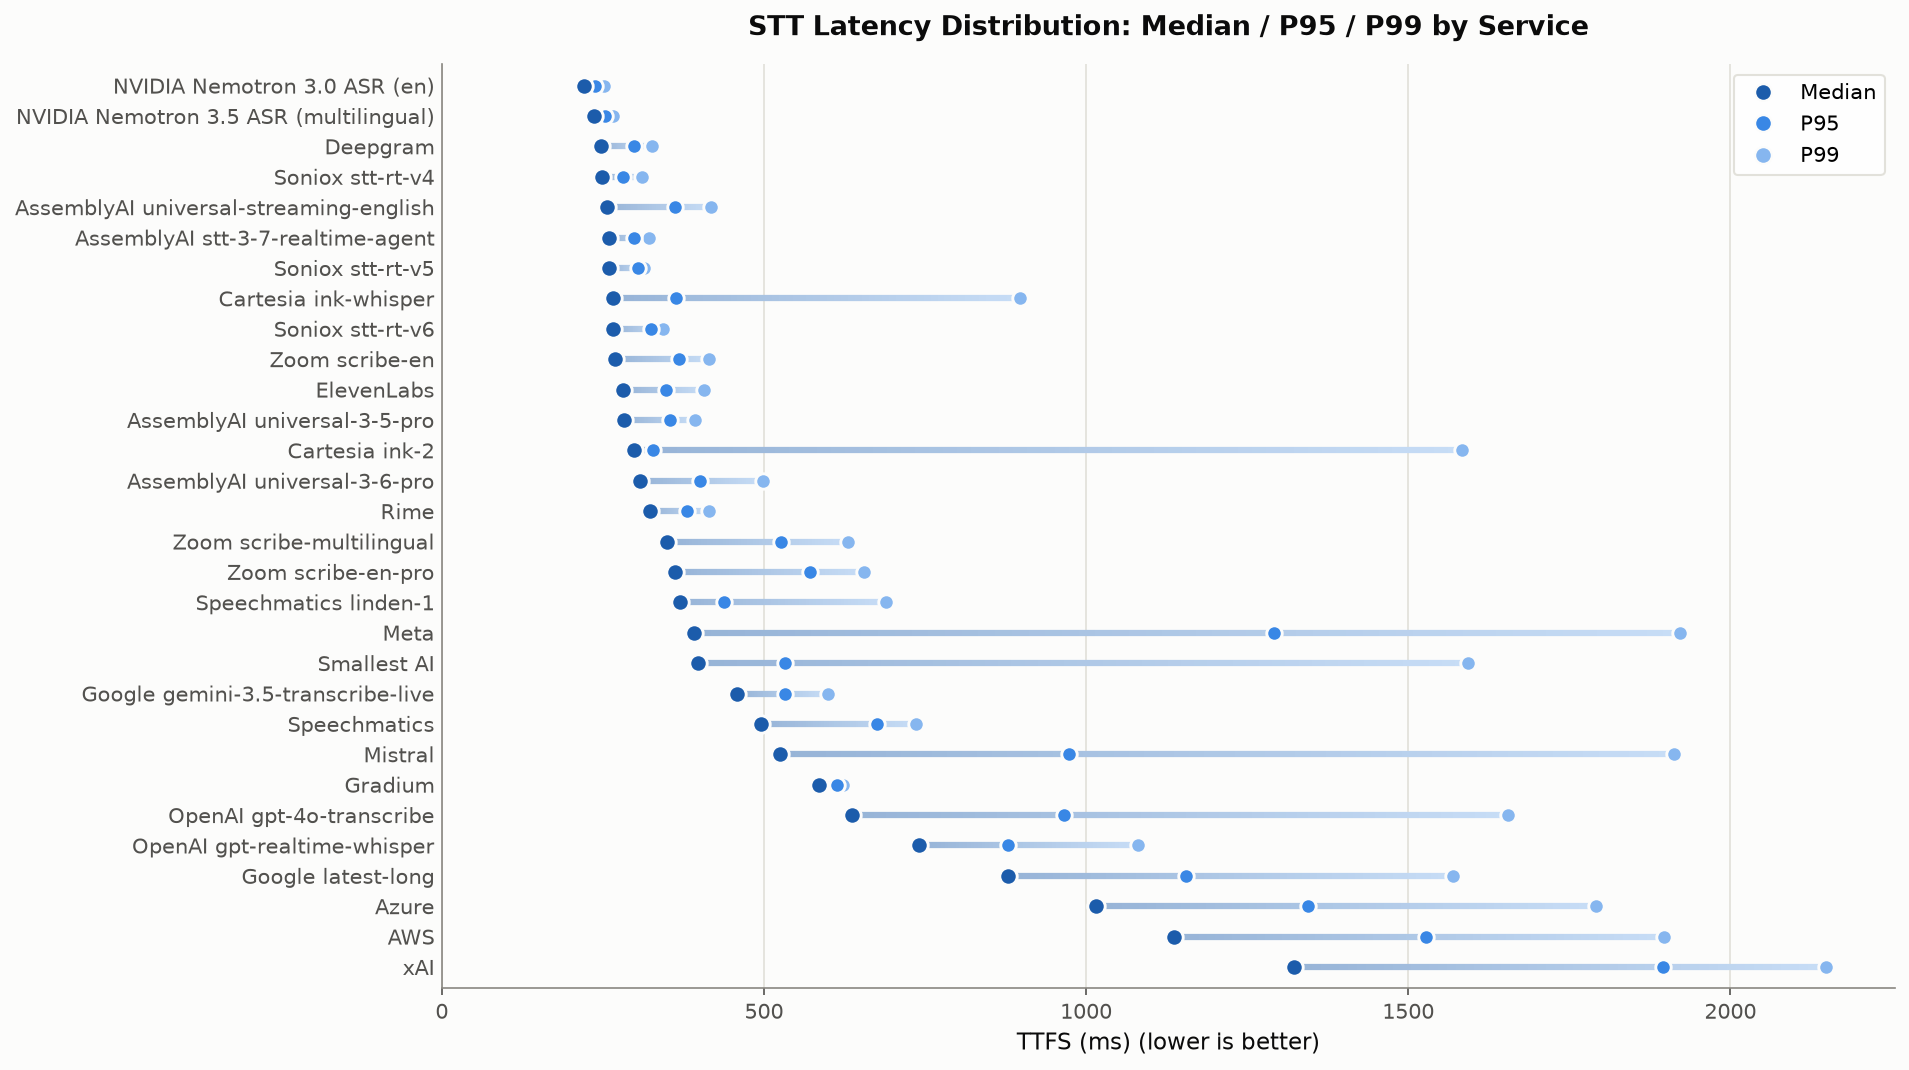
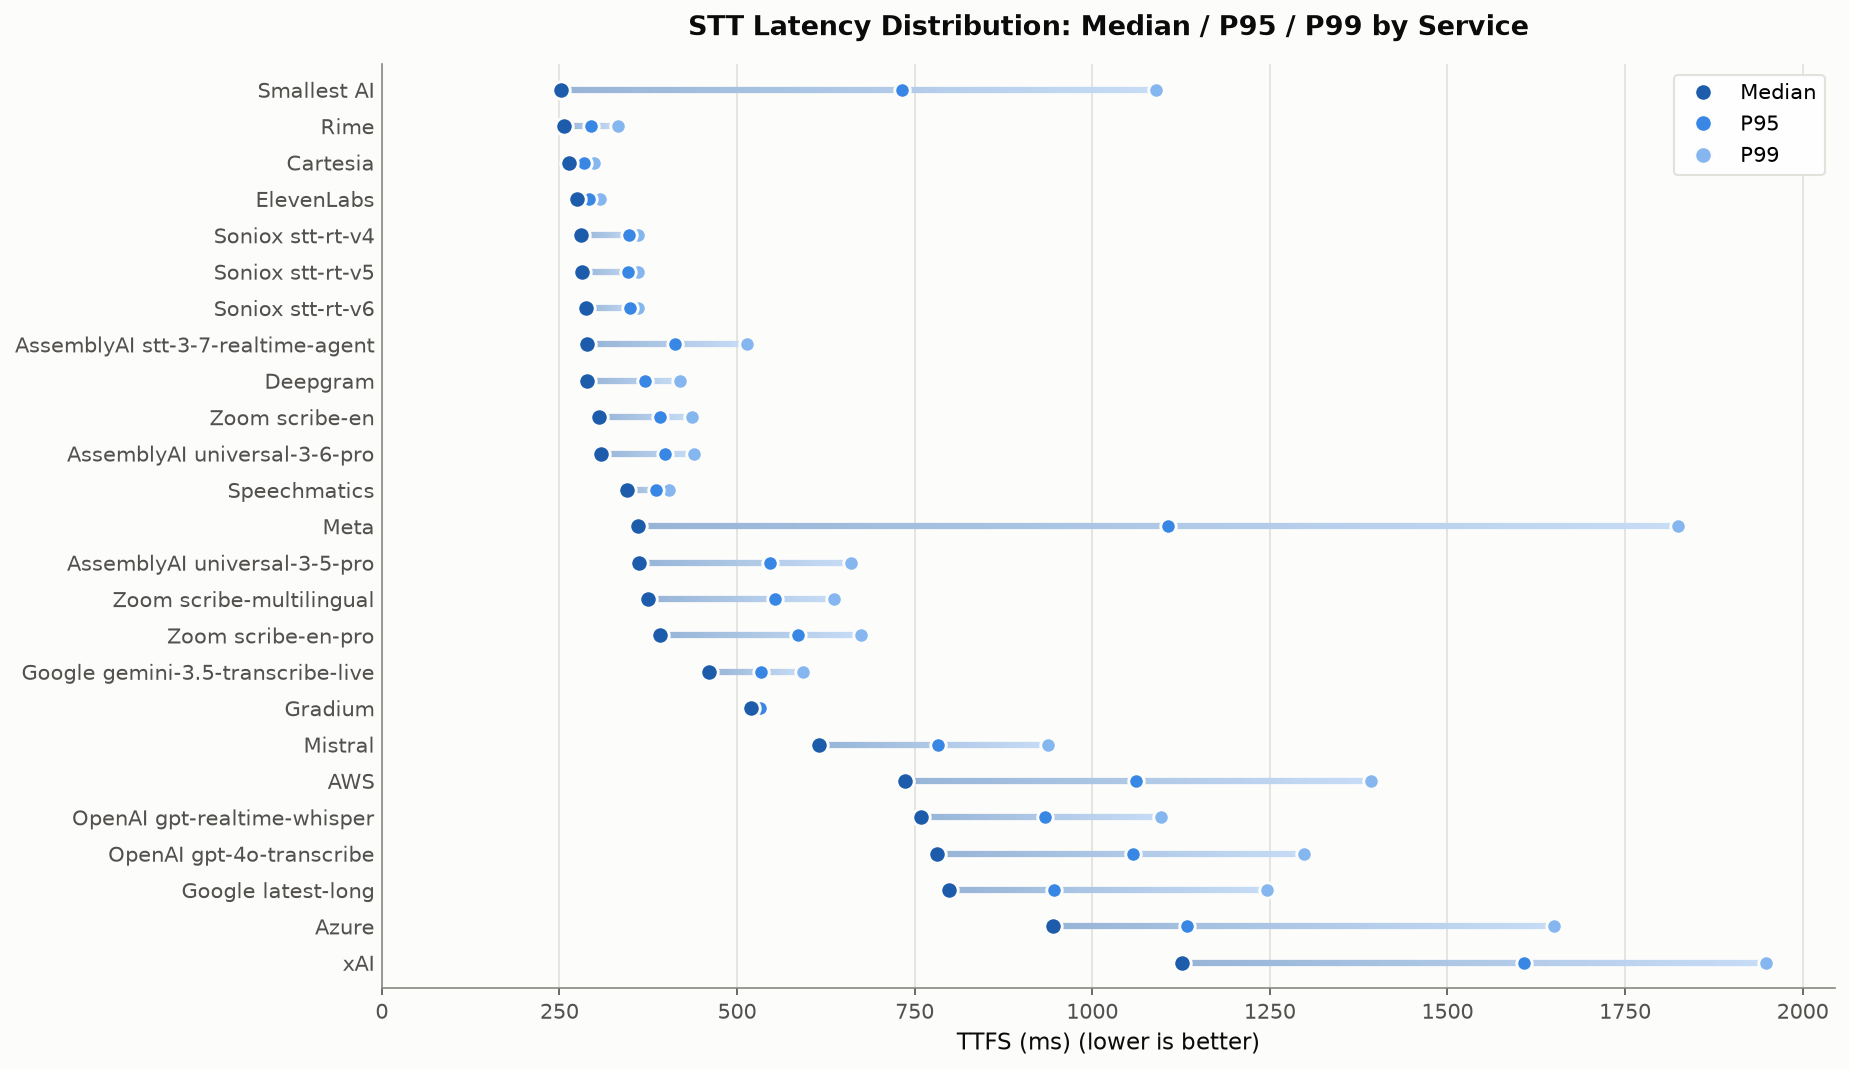
Re-baseline the results from us-west-2
Every row was measured between 23 and 26 November 2026 from one AWS
instance in us-west-2, on the same code and Pipecat version, and scored
by the current judge. The previous table mixed dates, locations and two
judges.

Five rows are not carried over: three superseded models and the two
NVIDIA models, which run locally and were not re-measured. The results
are recorded as the first snapshot, results/2026-11.

diff --git a/README.md b/README.md
@@ -22,48 +22,45 @@ Two services with the same median can therefore feel very different in an agent:
 
 ## Results Summary
 
-Benchmark results on 1000 samples from the `pipecat-ai/smart-turn-data-v3.1-train` dataset.
+Benchmark results on 1000 samples from the `pipecat-ai/smart-turn-data-v3.1-train` dataset. Every row was measured between 23 and 26 November 2026 from one AWS instance in `us-west-2`, on the same benchmark code and Pipecat version, and scored by the same judge. Earlier results are under [History](#history).
 
 <!-- RESULTS_TABLE:START -->
 | Vendor | Model | Transcripts | Perfect | WER Mean | Pooled WER | TTFS Median | TTFS P95 | TTFS P99 |
 |--------|-------|-------------|---------|----------|------------|-------------|----------|----------|
-| AssemblyAI | assemblyai-stt-3-7-realtime-agent | 99.9% | 91.4% | 0.61% | 0.52% | 260ms | 299ms | 321ms |
-| AssemblyAI | universal-3-5-pro | 99.9% | 86.0% | 1.12% | 0.95% | 282ms | 354ms | 393ms |
-| AssemblyAI | universal-3-6-pro | 99.9% | 88.7% | 0.89% | 0.80% | 307ms | 401ms | 498ms |
-| AssemblyAI | universal-streaming-english | 99.8% | 66.8% | 2.81% | 2.42% | 256ms | 362ms | 417ms |
-| AWS | N/A | 100.0% | 79.1% | 1.26% | 1.35% | 1136ms | 1527ms | 1897ms |
-| Azure | N/A | 100.0% | 83.5% | 0.98% | 1.01% | 1016ms | 1345ms | 1791ms |
-| Cartesia | ink-2 | 100.0% | 83.6% | 1.14% | 1.02% | 299ms | 328ms | 1584ms |
-| Cartesia | ink-whisper | 99.9% | 61.4% | 3.32% | 3.78% | 266ms | 364ms | 898ms |
-| Deepgram | nova-3-general | 99.8% | 77.7% | 1.32% | 1.37% | 247ms | 298ms | 326ms |
-| ElevenLabs | scribe_v2_realtime | 99.7% | 80.3% | 3.05% | 3.13% | 281ms | 348ms | 407ms |
-| Google | gemini-3.5-transcribe-live | 99.9% | 78.3% | 1.93% | 1.97% | 458ms | 532ms | 599ms |
-| Google | latest-long | 100.0% | 69.7% | 2.46% | 2.46% | 878ms | 1155ms | 1570ms |
-| Gradium | default | 99.3% | 65.6% | 3.81% | 3.79% | 585ms | 614ms | 623ms |
-| Meta | muse-voice-transcribe-1.0 | 99.9% | 89.5% | 0.80% | 0.73% | 392ms | 1292ms | 1922ms |
-| Mistral | voxtral-mini-transcribe-realtime-2602 | 99.3% | 67.7% | 4.49% | 5.11% | 525ms | 973ms | 1913ms |
-| NVIDIA | Nemotron 3.0 ASR (en) | 100.0% | 76.1% | 1.90%† | 1.95%† | 221ms | 238ms | 252ms |
-| NVIDIA | Nemotron 3.5 ASR (multilingual) | 99.6% | 62.0% | 4.54%† | 4.58%† | 236ms | 253ms | 266ms |
-| OpenAI | gpt-4o-transcribe | 99.3% | 75.7% | 3.10% | 2.95% | 637ms | 965ms | 1655ms |
-| OpenAI | gpt-realtime-whisper | 100.0% | 73.3% | 2.41% | 2.30% | 740ms | 878ms | 1080ms |
-| Rime | N/A | 100.0% | 82.5% | 1.25% | 1.21% | 323ms | 381ms | 415ms |
-| Smallest AI | pulse | 100.0% | 74.0% | 1.85% | 1.94% | 398ms | 533ms | 1593ms |
-| Soniox | stt-rt-v6 | 99.9% | 88.8% | 0.74% | 0.71% | 266ms | 324ms | 343ms |
-| Soniox | stt-rt-v4 | 99.8% | 83.2% | 1.04% | 1.13% | 249ms | 281ms | 310ms |
-| Soniox | stt-rt-v5 | 99.8% | 83.6% | 1.11% | 1.09% | 260ms | 305ms | 313ms |
-| Speechmatics | linden-1 | 99.5% | 83.9% | 1.11% | 0.96% | 369ms | 438ms | 690ms |
-| Speechmatics | N/A | 99.7% | 83.1% | 1.17% | 0.96% | 495ms | 676ms | 736ms |
-| xAI | grok-voice-transcribe-2.0 | 99.8% | 89.4% | 1.12% | 0.79% | 1322ms | 1895ms | 2148ms |
-| Zoom | zoom-scribe-en | 99.4% | 91.1% | 0.65% | 0.56% | 268ms | 368ms | 414ms |
-| Zoom | zoom-scribe-en-pro | 100.0% | 93.5% | 0.54% | 0.41% | 362ms | 572ms | 655ms |
-| Zoom | zoom-scribe-multilingual | 99.5% | 90.2% | 0.74% | 0.69% | 350ms | 526ms | 631ms |
+| AssemblyAI | assemblyai-stt-3-7-realtime-agent | 100.0% | 91.9% | 0.63% | 0.60% | 289ms | 412ms | 514ms |
+| AssemblyAI | universal-3-5-pro | 100.0% | 89.5% | 0.79% | 0.66% | 362ms | 547ms | 661ms |
+| AssemblyAI | universal-3-6-pro | 100.0% | 90.5% | 0.74% | 0.62% | 308ms | 399ms | 440ms |
+| AWS | N/A | 100.0% | 79.9% | 1.26% | 1.32% | 736ms | 1062ms | 1392ms |
+| Azure | N/A | 100.0% | 83.0% | 1.05% | 1.03% | 945ms | 1134ms | 1650ms |
+| Cartesia | ink-2 | 99.9% | 88.1% | 0.74% | 0.72% | 264ms | 285ms | 298ms |
+| Deepgram | nova-3-general | 100.0% | 79.2% | 1.35% | 1.35% | 289ms | 371ms | 420ms |
+| ElevenLabs | scribe_v2_realtime | 99.9% | 86.2% | 1.20% | 1.31% | 275ms | 292ms | 307ms |
+| Google | gemini-3.5-transcribe-live | 99.9% | 84.6% | 1.26% | 1.28% | 461ms | 533ms | 593ms |
+| Google | latest-long | 100.0% | 69.0% | 2.54% | 2.52% | 798ms | 946ms | 1246ms |
+| Gradium | default | 99.8% | 71.7% | 2.15% | 2.06% | 520ms | 532ms | 535ms |
+| Meta | muse-voice-transcribe-1.0 | 100.0% | 88.8% | 0.91% | 0.74% | 360ms | 1106ms | 1825ms |
+| Mistral | voxtral-mini-transcribe-realtime-2602 | 99.9% | 76.1% | 2.65% | 2.97% | 616ms | 783ms | 938ms |
+| OpenAI | gpt-4o-transcribe | 99.9% | 82.4% | 2.11% | 2.05% | 782ms | 1058ms | 1298ms |
+| OpenAI | gpt-realtime-whisper | 100.0% | 81.5% | 1.42% | 1.51% | 759ms | 934ms | 1097ms |
+| Rime | N/A | 99.9% | 85.1% | 1.09% | 1.10% | 257ms | 294ms | 333ms |
+| Smallest AI | pulse | 100.0% | 79.0% | 1.43% | 1.32% | 252ms | 732ms | 1090ms |
+| Soniox | stt-rt-v6 | 100.0% | 87.9% | 0.78% | 0.73% | 287ms | 350ms | 360ms |
+| Soniox | stt-rt-v4 | 100.0% | 85.0% | 1.02% | 1.00% | 280ms | 348ms | 360ms |
+| Soniox | stt-rt-v5 | 100.0% | 84.5% | 1.03% | 1.03% | 282ms | 346ms | 360ms |
+| Speechmatics | linden-1 | 99.9% | 85.4% | 0.99% | 0.84% | 345ms | 386ms | 404ms |
+| xAI | grok-voice-transcribe-2.0 | 99.8% | 90.7% | 0.83% | 0.58% | 1126ms | 1608ms | 1948ms |
+| Zoom | zoom-scribe-en | 100.0% | 92.2% | 0.56% | 0.48% | 305ms | 392ms | 436ms |
+| Zoom | zoom-scribe-en-pro | 99.9% | 93.4% | 0.57% | 0.43% | 391ms | 586ms | 675ms |
+| Zoom | zoom-scribe-multilingual | 99.9% | 88.9% | 0.78% | 0.71% | 375ms | 553ms | 637ms |
 <!-- RESULTS_TABLE:END -->
 
 Small WER differences aren't meaningful on this data. Among the most accurate services, differences of less than about 0.25 percentage points are within the 95% confidence interval from bootstrap resampling of the benchmark samples, so those services can't be reliably ranked against each other; the margin is wider for less accurate services.
 
-† Scored by the previous judge (Claude Sonnet 4.5), which reports WER about 15% higher on average than the current judge. These rows will be re-scored.
+Small latency differences aren't meaningful either. The same service measured in different sessions differed by about 10 ms in its median, so services within about 15 ms of each other can't be reliably ranked.
 
-> **Scoring update (September 2026):** Semantic WER is now judged by Claude Sonnet 5.5, replacing Claude Sonnet 4.5. Repeated words, stutters, and restarts in a transcription no longer count as errors, and a word split in two or merged with its neighbour counts as one error. WER fell for almost every service, by about 13% on average, mostly from fewer counted insertions; the Pareto frontier is unchanged. Earlier results are in the git history. See [Semantic WER](#semantic-wer) for how scoring works.
+Azure was measured against its `eastus` region from `us-west-2`, so its latency includes a cross-country round trip that a same-region deployment would not have.
+
+Each service runs with the settings its Pipecat integration uses by default. Several have settings that trade accuracy for latency, which these results don't explore.
 
 ### Latency vs Accuracy Trade-off
 
@@ -73,7 +70,9 @@ Small WER differences aren't meaningful on this data. Among the most accurate se
 
 The Pareto frontier shows services that offer the best trade-off between latency and accuracy—no other service is better on both metrics. Services on the frontier represent efficient choices depending on your priorities. They are drawn in green and joined by a line; a blue point is not on the frontier, however close it sits to one that is.
 
-Each point is a service's pooled WER. Points close together on the WER axis may not differ meaningfully; see the note under the [results table](#results-summary).
+Each point is a service's pooled WER. Points close together on either axis may not differ meaningfully; see the notes under the [results table](#results-summary).
+
+Both axes are logarithmic, so that the services in the fast, accurate corner can be told apart. Equal distances on the chart are equal ratios, not equal differences: read the values from the axis labels or the table.
 
 ### Latency Consistency
 
@@ -98,6 +97,18 @@ For production voice agents, **tail latency matters more than median**. Even occ
 > **Semantic WER** measures only transcription errors that would impact an LLM agent's understanding. Punctuation, contractions, filler words, and equivalent phrasings are ignored.
 
 > **TTFS (Time To Final Segment)** is measured from when the user stops speaking to when the last transcription segment for that turn is received: the moment the transcript is complete. Which percentile matters depends on the service; see [Reading TTFS](#what-this-benchmark-measures).
+
+### History
+
+The table and charts above are the latest results. Each full run is also kept as a dated snapshot under [`results/`](results/), so changes can be tracked over time:
+
+| Snapshot | Measured | From | Services |
+|----------|----------|------|----------|
+| [2026-11](results/2026-11/) | 23–26 November 2026 | AWS `us-west-2` | 25 |
+
+Each snapshot folder holds `summary.csv` (the table's numbers), `run.json` (region, Pipecat version, benchmark commit, judge and caveats), and the two charts. [`results/history.csv`](results/history.csv) holds every snapshot's rows in one file. Compare snapshots with their `run.json` in hand: a change in region, Pipecat version or judge moves the numbers on its own.
+
+Results published before the first snapshot were measured over several months, from more than one location and with two judges, so they are not kept as a snapshot; they remain in the git history. Five rows from that table were not carried over: AssemblyAI universal-streaming-english, Cartesia ink-whisper and the earlier Speechmatics model have been superseded, and the two NVIDIA Nemotron models run locally and were not re-measured.
 
 ## Contributing a Result
 
